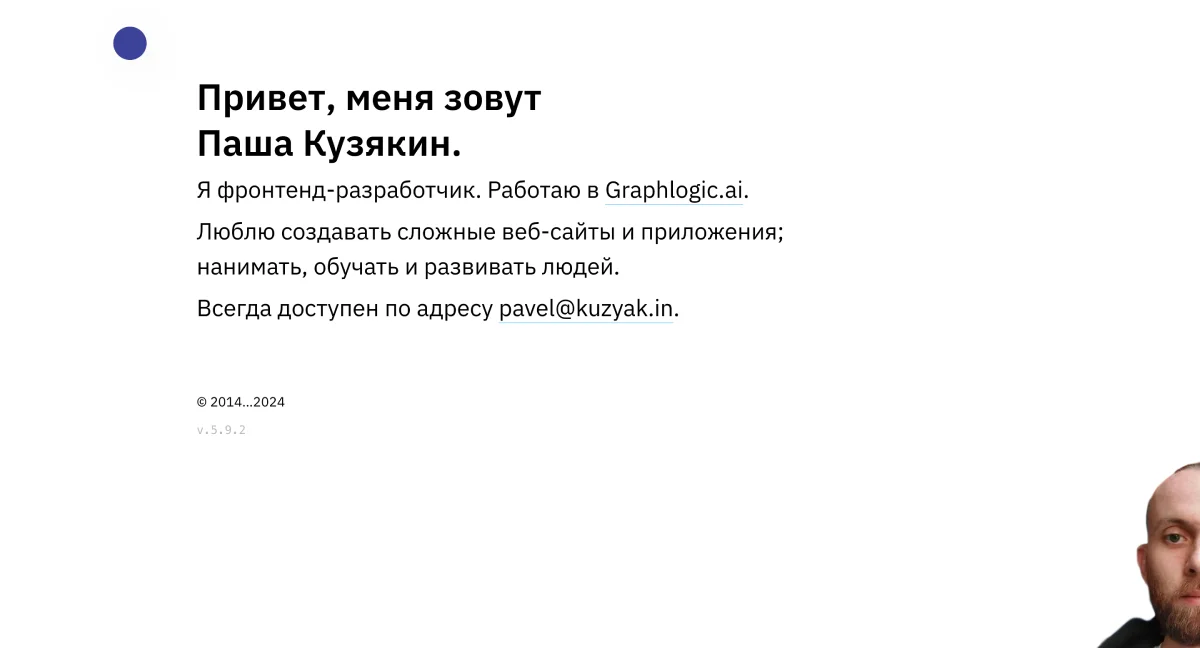
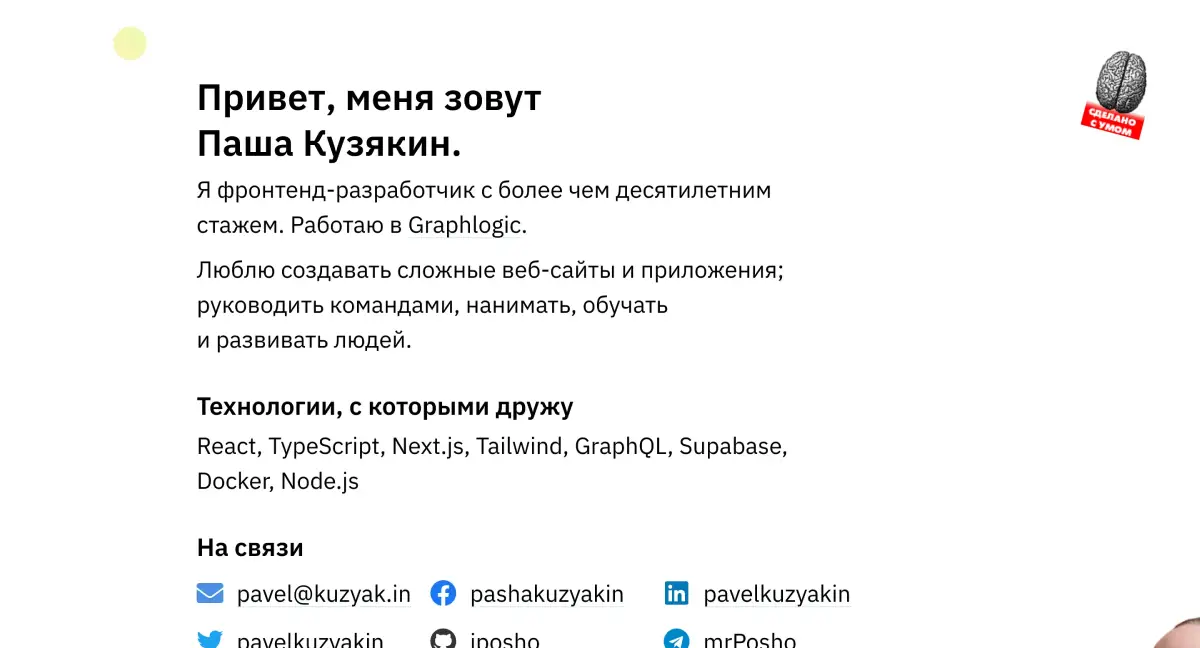
fix: improve styles and change development port
- Reduce vertical gap between list items
- Add non-breaking spaces in the headline for better display
- Change development port from 5000 to 5050
- Update preview image
- Bump version from 5.11.0 to 5.11.1

diff --git a/src/app/page.tsx b/src/app/page.tsx
@@ -7,7 +7,7 @@ export default function Home() {
     <>
       <section className={css.section}>
         <h1>
-          Привет, меня зовут Паша&nbsp;Кузякин.
+          Привет, меня&nbsp;зовут Паша&nbsp;Кузякин.
         </h1>
         <p>
           Я&nbsp;фронтенд-разработчик с более чем десятилетним стажем. Работаю в

diff --git a/src/app/page.module.scss b/src/app/page.module.scss
@@ -41,7 +41,7 @@
     display: inline-flex;
     flex-direction: column;
     font-size: 1.75rem;
-    gap: 1rem;
+    gap: .25rem;
     list-style-type: none;
     padding: 0;
     margin: 0;
